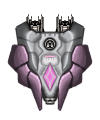
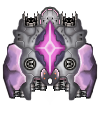
More stuffs: Resprite Tanimbar, changes in the ship and more

diff --git a/src/pigeonpun/projectsolace/shipsystems/ps_hyperframestats.java b/src/pigeonpun/projectsolace/shipsystems/ps_hyperframestats.java
@@ -1,35 +1,46 @@
 package pigeonpun.projectsolace.shipsystems;
 
 import com.fs.starfarer.api.Global;
-import com.fs.starfarer.api.combat.CombatEngineAPI;
-import com.fs.starfarer.api.combat.MutableShipStatsAPI;
-import com.fs.starfarer.api.combat.ShipAPI;
+import com.fs.starfarer.api.combat.*;
 import com.fs.starfarer.api.impl.combat.BaseShipSystemScript;
 import com.fs.starfarer.api.util.IntervalUtil;
 import org.lazywizard.lazylib.MathUtils;
+import org.lazywizard.lazylib.combat.CombatUtils;
+import org.lazywizard.lazylib.combat.entities.SimpleEntity;
 import org.lwjgl.util.vector.Vector2f;
 import pigeonpun.projectsolace.com.ps_misc;
 
+import java.awt.*;
+import java.util.HashSet;
+import java.util.List;
+import java.util.Map;
+
 public class ps_hyperframestats extends BaseShipSystemScript {
 
-    public static final float SPEED_BONUS = 100f;
-    public static final float ACCELERATION_BONUS = 100f;
-    public static final float AMMO_REGEN_BONUS = 2f;
-    public static final float FLUX_DISSIPATION_BONUS = 150f;
-    private final IntervalUtil spawnAfterImageInterval = new IntervalUtil(0.1f, 0.1f);
+//    public static final float SPEED_BONUS = 100f;
+//    public static final float ACCELERATION_BONUS = 100f;
+//    public static final float AMMO_REGEN_BONUS = 2f;
+//    public static final float FLUX_DISSIPATION_BONUS = 150f;
+    public static final float TIME_DAL = 5f;
+    public static final float EMP_RANGE = 200f;
+    public static final float EMP_DAMAGE = 500f;
+    private final IntervalUtil spawnAfterImageInterval = new IntervalUtil(0.02f, 0.02f);
+    private boolean ps_hyperframeEMP_activated = false;
 
     public void apply(MutableShipStatsAPI stats, String id, State state, float effectLevel) {
         ShipAPI ship = (ShipAPI) stats.getEntity();
         CombatEngineAPI engine = Global.getCombatEngine();
         if (state == State.OUT) {
-            stats.getMaxSpeed().unmodify(id); // to slow down ship to its regular top speed while powering drive down
+//            stats.getMaxSpeed().unmodify(id); // to slow down ship to its regular top speed while powering drive down
         } else {
             if(ship != null) {
-                stats.getMaxSpeed().modifyPercent(id, SPEED_BONUS);
-                stats.getAcceleration().modifyPercent(id, ACCELERATION_BONUS);
-                stats.getEnergyAmmoRegenMult().modifyMult(id, AMMO_REGEN_BONUS);
-                stats.getBallisticAmmoRegenMult().modifyMult(id, AMMO_REGEN_BONUS);
-                stats.getFluxDissipation().modifyPercent(id, FLUX_DISSIPATION_BONUS);
+                Map<String, Object> customCombatData = Global.getCombatEngine().getCustomData();
+//                stats.getMaxSpeed().modifyPercent(id, SPEED_BONUS);
+//                stats.getAcceleration().modifyPercent(id, ACCELERATION_BONUS);
+//                stats.getEnergyAmmoRegenMult().modifyMult(id, AMMO_REGEN_BONUS);
+//                stats.getBallisticAmmoRegenMult().modifyMult(id, AMMO_REGEN_BONUS);
+//                stats.getFluxDissipation().modifyPercent(id, FLUX_DISSIPATION_BONUS);
+                stats.getTimeMult().modifyMult(id, TIME_DAL);
                 //fx
                 spawnAfterImageInterval.advance(Global.getCombatEngine().getElapsedInLastFrame());
                 if(spawnAfterImageInterval.intervalElapsed()) {
@@ -47,26 +58,75 @@ public class ps_hyperframestats extends BaseShipSystemScript {
                             true,
                             false);
                 }
+
+                if(!ps_hyperframeEMP_activated) {
+                    SimpleEntity fromEntity = new SimpleEntity(MathUtils.getRandomPointInCircle(
+                            ship.getLocation(),
+                            ship.getCollisionRadius()
+                    ));
+                    SimpleEntity toEntity = new SimpleEntity(MathUtils.getRandomPointInCircle(
+                            ship.getLocation(),
+                            ship.getCollisionRadius()
+                    ));
+                    List<CombatEntityAPI> targetNearby = CombatUtils.getEntitiesWithinRange(ship.getLocation(), EMP_RANGE);
+                    HashSet<CombatEntityAPI> listTargets = new HashSet<>();
+                    for (CombatEntityAPI entity: targetNearby) {
+                        if(entity instanceof MissileAPI || entity instanceof FighterWingAPI) {
+                            if(ship.getOwner() != entity.getOwner()) {
+                                listTargets.add(entity);
+                            }
+                        }
+                    }
+                    if(!listTargets.isEmpty()) {
+                        for (CombatEntityAPI entity: listTargets) {
+                            engine.spawnEmpArc(
+                                    ship,
+                                    fromEntity.getLocation(),
+                                    fromEntity,
+                                    entity,
+                                    DamageType.ENERGY,
+                                    EMP_DAMAGE,
+                                    0,
+                                    10000,
+                                    null,
+                                    MathUtils.getRandomNumberInRange(5f,10f),
+                                    ps_misc.PROJECT_SOLACE,
+                                    new Color(255, 255,255, 255)
+                            );
+                            if(entity.isExpired() || entity.getHitpoints() < 0) {
+                                listTargets.remove(entity);
+                            }
+                        }
+                    } else {
+                        Global.getCombatEngine().spawnEmpArcVisual(fromEntity.getLocation(),
+                                fromEntity,
+                                toEntity.getLocation(),
+                                toEntity,
+                                2,
+                                ps_misc.PROJECT_SOLACE,
+                                new Color(255, 255,255, 255)
+                        );
+                    }
+                    ps_hyperframeEMP_activated = true;
+                }
+
+//                customCombatData.put("ps_hyperframeEMP_activated" + id, ps_hyperframeEMP_activated);
             }
         }
     }
     public void unapply(MutableShipStatsAPI stats, String id) {
-        stats.getMaxSpeed().unmodify(id);
-        stats.getAcceleration().unmodify(id);
-        stats.getEnergyAmmoRegenMult().unmodify(id);
-        stats.getBallisticAmmoRegenMult().unmodify(id);
-        stats.getFluxDissipation().unmodify(id);
+        ps_hyperframeEMP_activated = false;
+        stats.getTimeMult().unmodify(id);
+//        stats.getMaxSpeed().unmodify(id);
+//        stats.getAcceleration().unmodify(id);
+//        stats.getEnergyAmmoRegenMult().unmodify(id);
+//        stats.getBallisticAmmoRegenMult().unmodify(id);
+//        stats.getFluxDissipation().unmodify(id);
     }
 
     public StatusData getStatusData(int index, State state, float effectLevel) {
         if (index == 0) {
-            return new StatusData("Increased engine power", false);
-        }
-        if (index == 1) {
-            return new StatusData("Increased Ammo regeneration", false);
-        }
-        if (index == 2) {
-            return new StatusData("Increased flux dissipation", false);
+            return new StatusData("Time dilation " + TIME_DAL + "x", false);
         }
         return null;
     }
